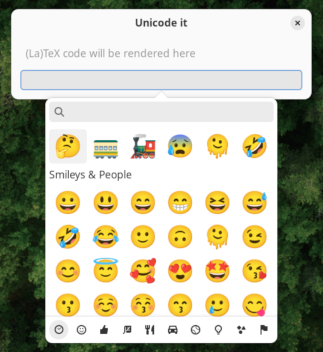
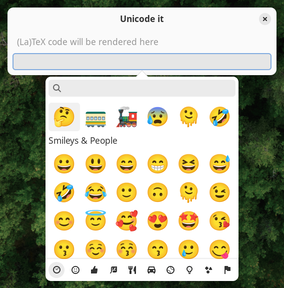
Use CSS styling

diff --git a/unicodeit_gtk/app.py b/unicodeit_gtk/app.py
@@ -4,17 +4,12 @@ import warnings
 
 import unicodeit
 from unicodeit.data import REPLACEMENTS
-from setproctitle import setproctitle
 
 import gi
 gi.require_version('Gtk', '4.0')
 gi.require_version('Adw', '1')
 
 from gi.repository import GObject, GLib, Adw, Gtk, Gio, Pango  # noqa: E402
-
-
-GUI_WIDTH = 500
-GUI_SPACING = 15
 
 
 class UnicodeItCompletion(Gtk.EntryCompletion):
@@ -38,6 +33,7 @@ class UnicodeItInput(Gtk.Entry):
 
     def __init__(self):
         super().__init__()
+        self.add_css_class('content-input')
         self.completion = UnicodeItCompletion()
 
         with warnings.catch_warnings():
@@ -62,10 +58,10 @@ class UnicodeItOutput(Gtk.Label):
     def set_text(self, text: str):
         if text:
             super().set_text(text)
+            self.remove_css_class('placeholder')
         else:
-            self.set_markup(
-                '<span foreground="gray">(La)TeX code will be rendered here</span>'
-            )
+            super().set_text('(La)TeX code will be rendered here')
+            self.add_css_class('placeholder')
 
 
 class UnicodeItWindow(Adw.ApplicationWindow):
@@ -76,7 +72,6 @@ class UnicodeItWindow(Adw.ApplicationWindow):
 
     def __init__(self, application: Gtk.Application):
         super().__init__(application=application, title='Unicode it')
-        self.set_size_request(GUI_WIDTH, -1)
 
         self.toolbar = Adw.ToolbarView()  # type: ignore
         self.set_content(self.toolbar)
@@ -84,24 +79,17 @@ class UnicodeItWindow(Adw.ApplicationWindow):
         self.header = Adw.HeaderBar()
         self.toolbar.add_top_bar(self.header)
 
-        self.content = Gtk.Box(
-            orientation=Gtk.Orientation.VERTICAL,
-            spacing=GUI_SPACING,
-            margin_top=GUI_SPACING,
-            margin_bottom=GUI_SPACING,
-            margin_start=GUI_SPACING,
-            margin_end=GUI_SPACING
-        )
-
+        self.content = Gtk.Grid()
+        self.content.add_css_class('content')
         self.toolbar.set_content(self.content)
 
         self.output_widget = UnicodeItOutput()
-        self.content.append(self.output_widget)
+        self.content.attach(self.output_widget, column=0, row=0, width=1, height=1)
 
         self.input_widget = UnicodeItInput()
         self.input_widget.connect('changed', self.on_input)
         self.input_widget.connect('activate', self.on_enter)
-        self.content.append(self.input_widget)
+        self.content.attach(self.input_widget, column=0, row=1, width=1, height=1)
 
         self.activate()
 
@@ -138,7 +126,6 @@ class UnicodeItApp(Adw.Application):
 
     def __init__(self):
         super().__init__(application_id='net.ivasilev.UnicodeItGTK')
-        setproctitle('unicodeit-gtk')
         self.window = None
 
         GLib.set_application_name('Unicode it')

diff --git a/unicodeit_gtk/styling.py b/unicodeit_gtk/styling.py
@@ -1,0 +1,29 @@
+from gi.repository import Gdk, Gtk
+
+
+CSS = """
+label.placeholder {
+    opacity: 0.5;
+}
+
+grid.content {
+  margin: 10px;
+  border-spacing: 10px;
+}
+
+entry.content-input {
+  min-width: 500px;
+}
+"""
+
+
+def apply_styling():
+    style_provider = Gtk.CssProvider()
+    style_provider.load_from_string(CSS)  # type: ignore[attr-defined]
+
+    if (display := Gdk.Display.get_default()):
+        Gtk.StyleContext.add_provider_for_display(
+            display,
+            style_provider,
+            Gtk.STYLE_PROVIDER_PRIORITY_APPLICATION
+        )

diff --git a/unicodeit_gtk/__init__.py b/unicodeit_gtk/__init__.py
@@ -1,4 +1,5 @@
 from .app import UnicodeItApp
+from .styling import apply_styling
 
 
-__all__ = ['UnicodeItApp']
+__all__ = ['UnicodeItApp', 'apply_styling']
